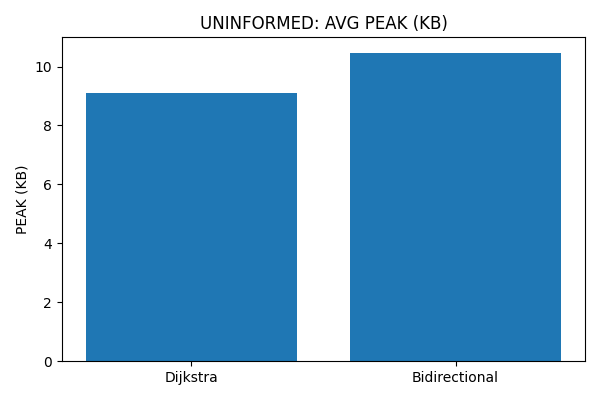
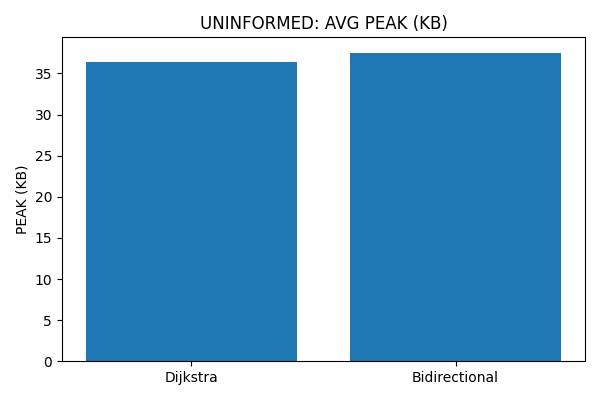
Correção dos Gráficos Tempo vs Memória & Módulo do BFS

diff --git a/trabalho1/src/comparisons/informed_plots.py b/trabalho1/src/comparisons/informed_plots.py
@@ -170,13 +170,13 @@ def plot_informed_time_memory(metrics: dict, out_dir: str | Path | None = None):
 
     # DEFINE ALGORITHMS AND HEURISTICS (ALL 4 HEURISTICS)
     algorithms = [
-        ('A*-Manhattan',   metrics.get('A*-Manhattan avg time (ms)', 0),   metrics.get('A*-Manhattan avg memory (B)', 0)),
-        ('A*-Euclidean',   metrics.get('A*-Euclidean avg time (ms)', 0),   metrics.get('A*-Euclidean avg memory (B)', 0)),
-        ('A*-Inadmissible', metrics.get('A*-Inadmissible avg time (ms)', 0), metrics.get('A*-Inadmissible avg memory (B)', 0)),
+        ('A*-Manhattan',   metrics.get('A*-Manhattan avg time (ms)', 0),   metrics.get('A*-Manhattan avg peak (KB)', 0)),
+        ('A*-Euclidean',   metrics.get('A*-Euclidean avg time (ms)', 0),   metrics.get('A*-Euclidean avg peak (KB)', 0)),
+        ('A*-Inadmissible', metrics.get('A*-Inadmissible avg time (ms)', 0), metrics.get('A*-Inadmissible avg peak (KB)', 0)),
 
-        ('Greedy-Manhattan', metrics.get('Greedy-Manhattan avg time (ms)', 0), metrics.get('Greedy-Manhattan avg memory (B)', 0)),
-        ('Greedy-Euclidean', metrics.get('Greedy-Euclidean avg time (ms)', 0), metrics.get('Greedy-Euclidean avg memory (B)', 0)),
-        ('Greedy-Inadmissible', metrics.get('Greedy-Inadmissible avg time (ms)', 0), metrics.get('Greedy-Inadmissible avg memory (B)', 0))
+        ('Greedy-Manhattan', metrics.get('Greedy-Manhattan avg time (ms)', 0), metrics.get('Greedy-Manhattan avg peak (KB)', 0)),
+        ('Greedy-Euclidean', metrics.get('Greedy-Euclidean avg time (ms)', 0), metrics.get('Greedy-Euclidean avg peak (KB)', 0)),
+        ('Greedy-Inadmissible', metrics.get('Greedy-Inadmissible avg time (ms)', 0), metrics.get('Greedy-Inadmissible avg peak (KB)', 0))
     ]
 
     # PREPARE PLOT

diff --git a/trabalho1/src/tools/run_gui.py b/trabalho1/src/tools/run_gui.py
@@ -25,10 +25,10 @@ from core.heuristics import h_manhattan_distance, h_euclidean_distance, h_inadmi
 
 # SEARCH
 from search.measure_time_memory import measure_time_memory
-from search.best_first_search import reconstruct_path
 
 # UNINFORMED SEARCH
 from uninformed.dijkstra import dijkstra
+from uninformed.best_first_search import reconstruct_path
 from uninformed.bidirectional_best_first_search import bidirectional_best_first_search
 from uninformed.generate_gifs_uninformed import generate_gifs_uninformed
 from uninformed.uninformed_comparison import compare_uninformed_search_algorithms

diff --git a/trabalho1/src/uninformed/uninformed_comparison.py b/trabalho1/src/uninformed/uninformed_comparison.py
@@ -13,12 +13,13 @@ from core.maze_problem import MazeProblem
 from core.maze_representation import Maze
 
 # SEARCH
-from search.best_first_search import best_first_search
 from search.measure_time_memory import measure_time_memory
 
 # COMPARISON 
 from comparisons.uninformed_plots import plot_uninformed_metrics
 
+# UNINFORMED SEARCH
+from uninformed.best_first_search import best_first_search
 
 # COMPARE DIJKSTRA AND BIDIRECTIONAL BEST-FIRST SEARCH
 def compare_uninformed_search_algorithms(matrix):

diff --git a/trabalho1/src/comparisons/uninformed_plots.py b/trabalho1/src/comparisons/uninformed_plots.py
@@ -119,8 +119,8 @@ def plot_uninformed_time_memory(metrics: dict, out_dir: str | Path | None = None
         float(metrics.get('Bidirectional avg time (ms)', 0))
     ]
     memory_values = [
-        float(metrics.get('Dijkstra avg memory (B)', 0)) / 1024,  # convert to KB
-        float(metrics.get('Bidirectional avg memory (B)', 0)) / 1024
+        float(metrics.get('Dijkstra avg peak (KB)', 0)),
+        float(metrics.get('Bidirectional avg peak (KB)', 0))
     ]
 
     # PLOT CONFIG

diff --git a/trabalho1/src/uninformed/bidirectional_best_first_search.py b/trabalho1/src/uninformed/bidirectional_best_first_search.py
@@ -10,9 +10,10 @@ from core.maze_problem import MazeProblem
 from core.maze_representation import Maze
 
 # SEARCH
-from search.best_first_search import expand, reconstruct_path
 from search.measure_time_memory import measure_time_memory
 
+# UNINFORMED SEARCH
+from uninformed.best_first_search import expand, reconstruct_path
 
 # BIDIRECTIONAL BEST-FIRST SEARCH COMPUTATION FUNCTION
 def compute_bidirectional_best_first_search(problem: Problem, matrix):

diff --git a/trabalho1/src/uninformed/dijkstra.py b/trabalho1/src/uninformed/dijkstra.py
@@ -7,9 +7,10 @@ from core.problem import Problem
 from core.node import Node
 
 # SEARCH
-from search.best_first_search import best_first_search, reconstruct_path
 from search.measure_time_memory import measure_time_memory
 
+# UNINFORMED SEARCH
+from uninformed.best_first_search import best_first_search, reconstruct_path
 
 # DIJKSTRA SEARCH COMPUTATION FUNCTION
 def compute_dijkstra(problem: Problem):

diff --git a/trabalho1/src/uninformed/generate_gifs_uninformed.py b/trabalho1/src/uninformed/generate_gifs_uninformed.py
@@ -13,9 +13,9 @@ from core.problem import Problem
 # UNINFORMED SEARCH
 from uninformed.bidirectional_best_first_search import bidirectional_best_first_search
 from uninformed.dijkstra import dijkstra
+from uninformed.best_first_search import reconstruct_path
 
 # SEARCH
-from search.best_first_search import reconstruct_path
 from search import visualize_matrix
 
 

diff --git a/trabalho1/src/tools/main.py b/trabalho1/src/tools/main.py
@@ -1,7 +1,11 @@
 # EXTERNAL IMPORTS
-import os
+import os, sys
 from pathlib import Path
 import traceback                 
+
+# ADJUST SYSTEM PATH TO INCLUDE THE SRC FOLDER FOR MODULE RESOLUTION
+src_path = os.path.abspath(os.path.join(os.path.dirname(__file__), '..'))
+sys.path.insert(0, src_path)
 
 # INTERNAL PROJECT IMPORTS
 # CORE
